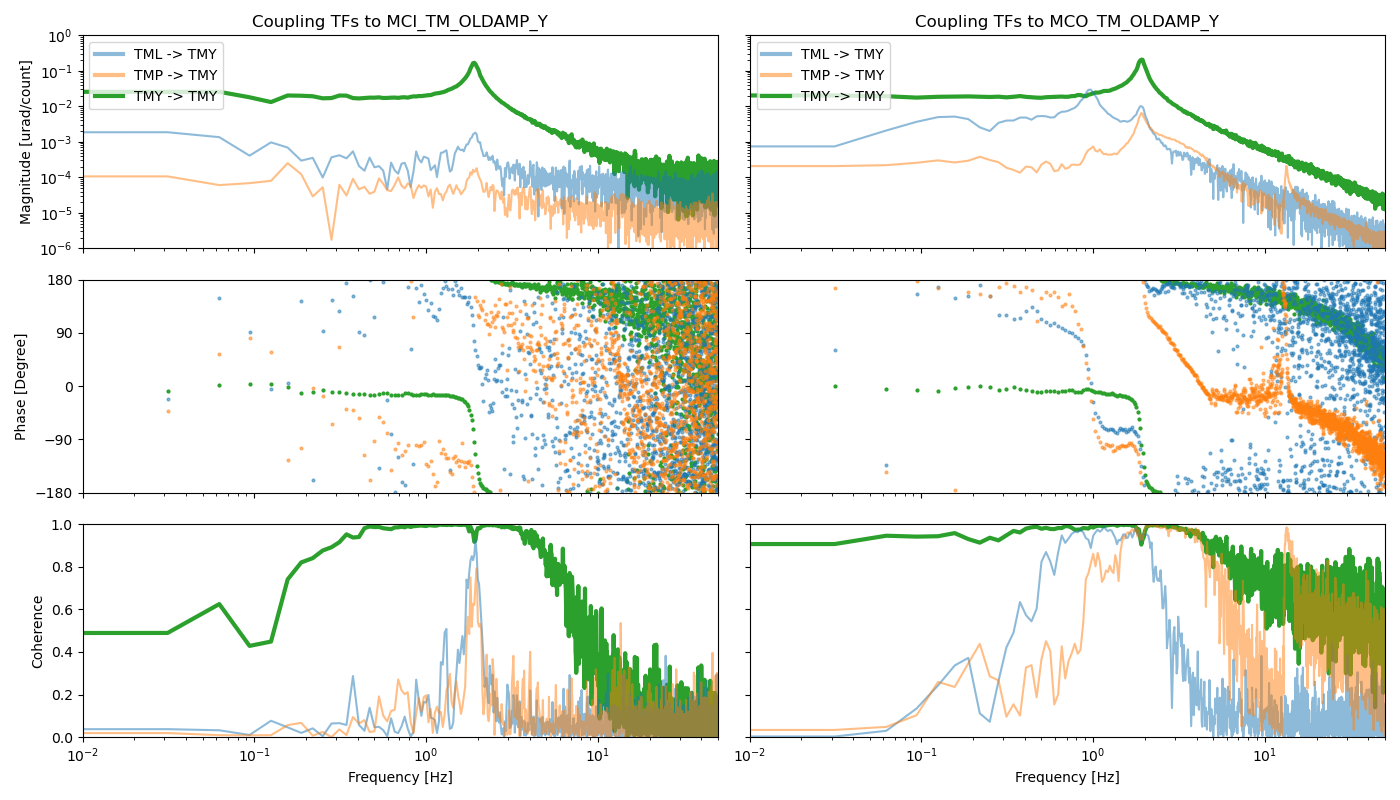
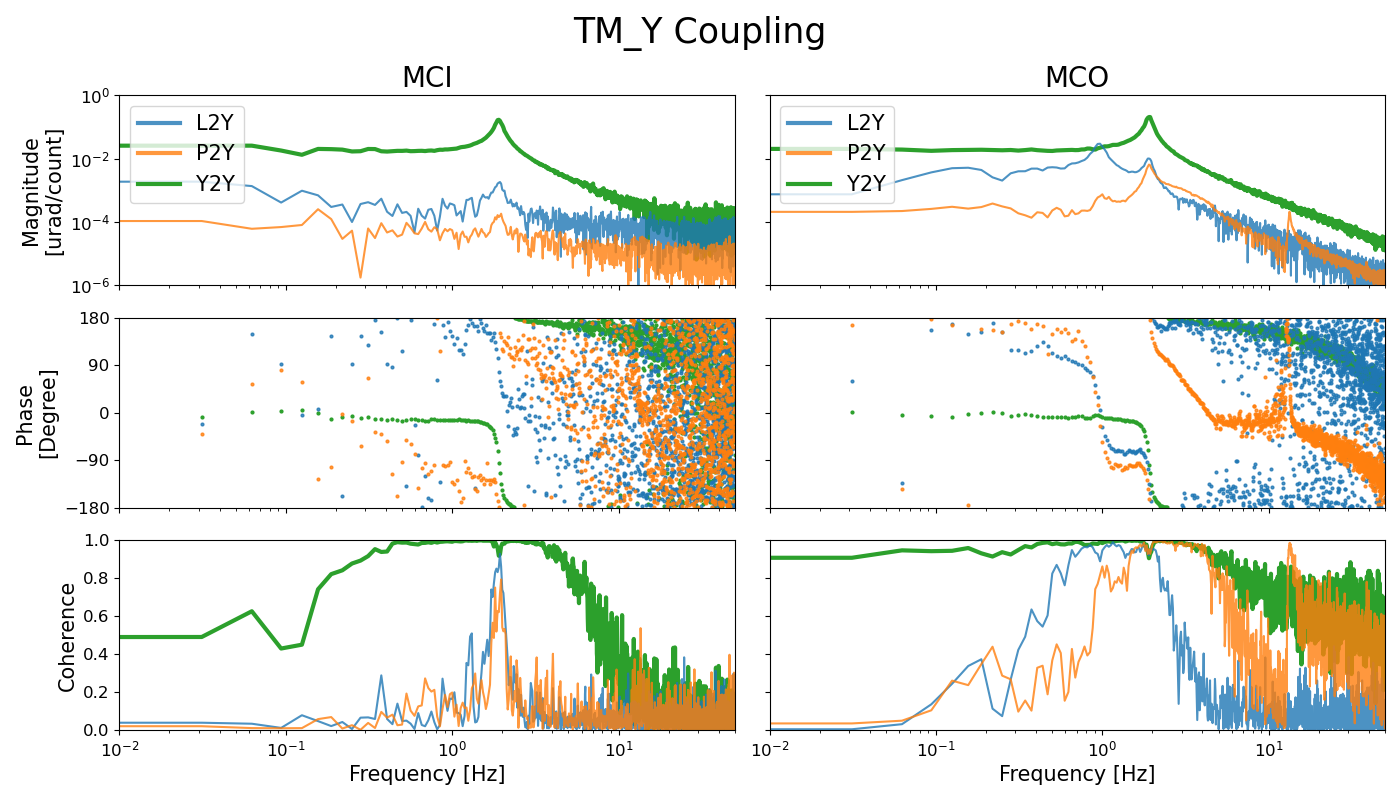
Update graph style.

diff --git a/common/scripts/automeasurement/plot.py b/common/scripts/automeasurement/plot.py
@@ -123,7 +123,7 @@ def plot_tf(w,tf,coh,ax=None,label='None',style='-',subtitle='No title',ylim=[1e
     '''
     if isinstance(ax,np.ndarray) and len(ax)==3:
         if not subtitle=='':
-            ax[0].set_title(subtitle)    
+            ax[0].set_title(subtitle,fontsize=20)    
         hoge = ax[0].loglog(w,np.abs(tf),style,label=label,**kwargs)
         _color = hoge[0].get_color()
         ax[0].set_ylim(ylim[0],ylim[1])
@@ -143,7 +143,7 @@ def plot_tf(w,tf,coh,ax=None,label='None',style='-',subtitle='No title',ylim=[1e
         # #ezca[chname] = '{0:3.0f}'.format(_gain/_dc)
         # ax[0].hlines(_dc,1e-2,1e0,color=_color,linestyle='--')
         # -------
-        leg = ax[0].legend(loc='upper left',numpoints=1,markerscale=5)
+        leg = ax[0].legend(loc='upper left',numpoints=1,markerscale=5,fontsize=15)
         [l.set_linewidth(3) for l in leg.legendHandles]        
     elif not isinstance(ax,list):
         ax.loglog(w,np.abs(tf),style,label=label,**kwargs)
@@ -161,26 +161,27 @@ def plot_couple(optics,stages,dofs,excs,func='DAMP',
     optic = optics[0]
     nrow = len(optics)
     ncol = len(dofs)
-    ncol = 3
+    ncol = 3    
     for k,dof in enumerate(dofs):
         fig,ax = plt.subplots(ncol,nrow,figsize=(14,8),sharex=True,sharey='row')
+        plt.subplots_adjust(wspace=0.1, hspace=0.1)        
         for j,optic in enumerate(optics):
             for i,exc in enumerate(excs): # i: plot same figure
-                #fig.suptitle('Coupling TFs to {0}_{1}_{2}_{3}'.format(optic,stage,func, dof))
-                ax[0,j].set_title('Coupling TFs to {0}_{1}_{2}_{3}'.format(optic,stage,func, dof))                
+                fig.suptitle('{1}_{3} Coupling'.format(optic,stage,func, dof),fontsize=25)
+                ax[0,j].set_title('{0}'.format(optic,stage,func, dof),fontsize=20)                
                 # get_data
                 _in = '{0}_{1}_{3}_{2}_EXC'.format(optic,stage,exc,test)
                 _out = '{0}_{1}_{2}_{3}_IN1'.format(optic,stage,func,dof)
                 w, tf, coh = get_tf(_in,_out,datetime=datetime)
                 # plot
-                label = '{0}{1} -> {0}{2}'.format(stage,exc,dof)
+                label = '{1}2{2}'.format(stage,exc,dof)
                 title = ''
                 if exc==dof: # plot with bold line
                     plot_tf(w,tf,coh,ax[:,j],label=label,
                             subtitle=title,linewidth=3,zorder=0)
                 else:
                     plot_tf(w,tf,coh,ax[:,j],label=label,
-                            subtitle=title,alpha=0.5)
+                            subtitle=title,alpha=0.8)
 
             if datetime=='current':    
                 fname = prefix+'/current/PLANT_{0}_{1}_{2}_{3}_COUPLE.png'.\
@@ -196,15 +197,16 @@ def plot_couple(optics,stages,dofs,excs,func='DAMP',
         #     [ax[i,0].set_ylabel('Magnitude [urad/count]') for i in range(ncol)]        
         # else:
         #     raise ValueError('!')
-        [ax[2][k].set_xlabel('Frequency [Hz]') for k in range(nrow)]
+        [ax[2][k].set_xlabel('Frequency [Hz]',fontsize=15) for k in range(nrow)]
         if dof in ['L','T','V','GAS']:
-            ax[0][0].set_ylabel('Magnitude\n[um/count]')            
+            ax[0][0].set_ylabel('Magnitude\n[um/count]',fontsize=15)            
         elif dof in ['R','P','Y']:
-            ax[0][0].set_ylabel('Magnitude [urad/count]')
+            ax[0][0].set_ylabel('Magnitude\n[urad/count]',fontsize=15)
         else:
             raise ValueError('!')        
-        ax[1][0].set_ylabel('Phase [Degree]')
-        ax[2][0].set_ylabel('Coherence')            
+        ax[1][0].set_ylabel('Phase\n[Degree]',fontsize=15)
+        ax[2][0].set_ylabel('Coherence',fontsize=15)
+        [ax[i][j].tick_params(labelsize=12) for i in range(ncol) for j in range(nrow)]        
         plt.tight_layout()
         plt.savefig(fname)
         plt.show()        
@@ -220,10 +222,11 @@ def plot(optics,stages,dofs,excs,func='DAMP',datetime='current',
     
     nrow = max(len(dofs),len(excs),3)
     fig,ax = plt.subplots(3,nrow,figsize=(14,8),sharex=True,sharey='row')
+    plt.subplots_adjust(wspace=0.1, hspace=0.1)
     #
     if excs==dofs and len(stages)==1:#EUL2EUL    
         stage = stages[0]
-        fig.suptitle('{0} {1} DIAG EXC'.format(stage,func))
+        fig.suptitle('{0}'.format(stage,func),fontsize=25)
         for j,dof in enumerate(dofs): # j: plot other figure
             for i,optic in enumerate(optics): # i: plot same figure
                 exc = dof
@@ -234,8 +237,8 @@ def plot(optics,stages,dofs,excs,func='DAMP',datetime='current',
                                     savetxt=savetxt)
                 #
                 # plot
-                label = '{0}_{1}_{2}_{3}'.format(optic,stage,func,dof)
-                title = '{0}->{1}'.format(exc,dof)
+                label = '{0}'.format(optic,stage,func,dof)
+                title = '{0}2{1}'.format(exc,dof)
                 plot_tf(w,tf,coh,ax[:,j],label=label,subtitle=title,oltf=oltf)
         if datetime=='current':
             fname = prefix+'/current/PLANT_SUS_{1}_{2}_DIAG_EXC.png'.\
@@ -245,11 +248,11 @@ def plot(optics,stages,dofs,excs,func='DAMP',datetime='current',
                 format(optic,stage,func,exc,datetime)
     elif test=='COILOUTF': # COIL2EUL
         stage = stages[0]
-        fig.suptitle('{0} {1} DIAG EXC'.format(stage,func))
+        dof = dofs[0]        
+        fig.suptitle('Coil to {2}'.format(stage,func,dof),fontsize=25)
         for j,exc in enumerate(excs): # j: plot other figure            
             for i,optic in enumerate(optics): # i: plot same figure
                 #for exc in excs:
-                dof = dofs[0]
                 # get_data
                 _in = '{0}_{1}_{3}_{2}_EXC'.format(optic,stage,exc,test)
                 _out = '{0}_{1}_{2}_{3}_IN1'.format(optic,stage,func,dof)
@@ -269,17 +272,18 @@ def plot(optics,stages,dofs,excs,func='DAMP',datetime='current',
     else: #COIL2SENS
         raise ValueError('!')    
     print(fname)
-    [ax[2][k].set_xlabel('Frequency [Hz]') for k in range(nrow)]
+    [ax[2][k].set_xlabel('Frequency [Hz]',fontsize=15) for k in range(nrow)]
 
     if dof in ['L','T','V','GAS']:
-        ax[0][0].set_ylabel('Magnitude\n[um/count]')            
+        ax[0][0].set_ylabel('Magnitude\n[um/count]',fontsize=15)
     elif dof in ['R','P','Y']:
-        ax[0][0].set_ylabel('Magnitude [urad/count]')
+        ax[0][0].set_ylabel('Magnitude\n[urad/count]',fontsize=15)
     else:
         raise ValueError('!')            
-    ax[1][0].set_ylabel('Phase [Degree]')
-    ax[2][0].set_ylabel('Coherence')    
-    plt.tight_layout()
+    ax[1][0].set_ylabel('Phase\n[Degree]',fontsize=15)
+    ax[2][0].set_ylabel('Coherence',fontsize=15)
+    [ax[i][j].tick_params(labelsize=12) for i in range(3) for j in range(nrow)]
+    #plt.tight_layout()
     plt.savefig(fname)
     plt.show()    
     plt.close()
